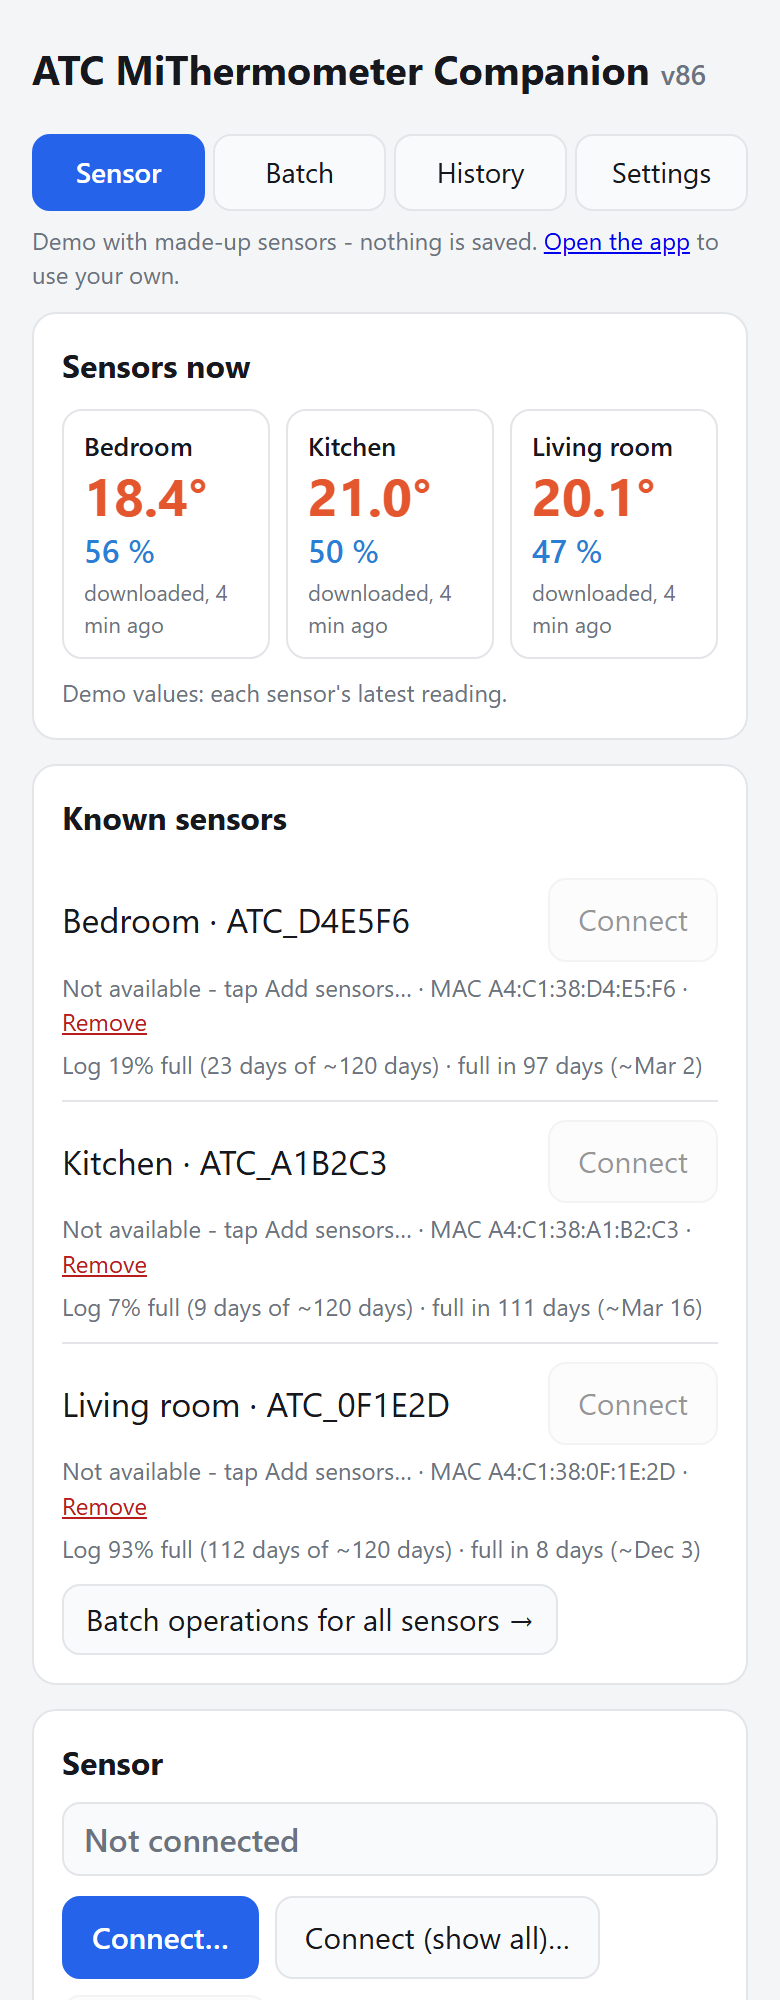
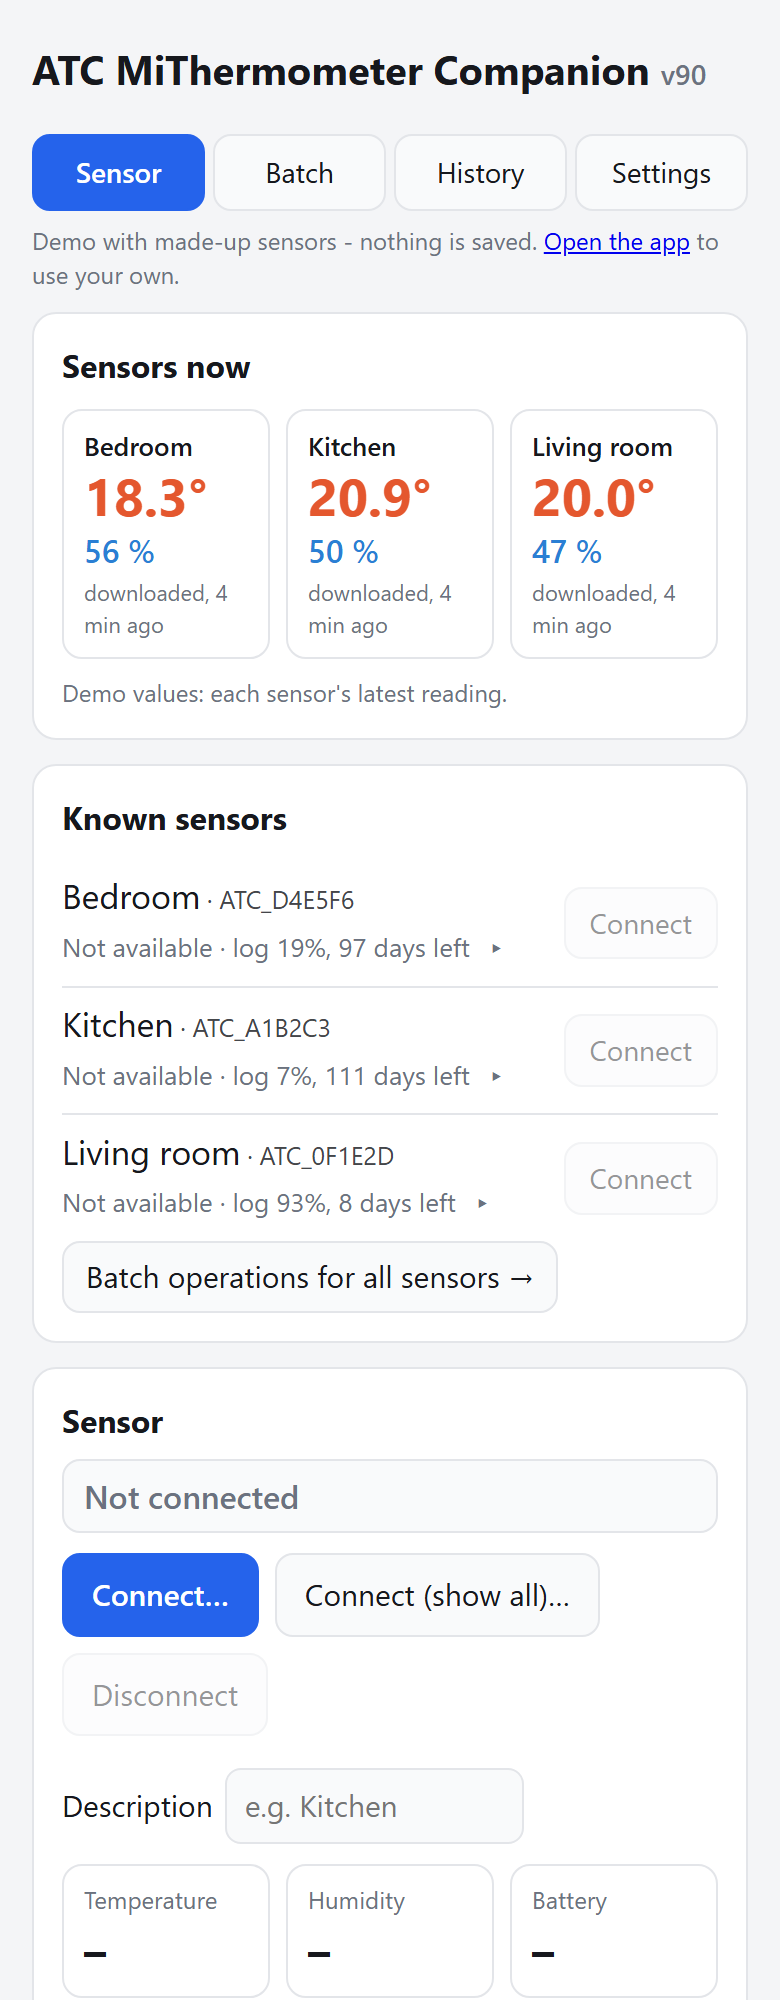
Compact sensor list: two lines per sensor, details on tap (v90)

diff --git a/index.html b/index.html
@@ -125,7 +125,25 @@ body:not([data-tab="all"]) .only-all { display: none !important; }
 .ks .nm { font-weight: 600; }
 #knownList .nm { font-size: 17px; }
 /* Batch tab: no per-sensor Connect buttons (batch operations connect by themselves) */
-body[data-tab="all"] #knownList .ks > button { display: none; }
+body[data-tab="all"] #knownList .ks > .go { display: none; }
+/* Compact sensor list: name line, status line, details on tap */
+#knownList .kc { grid-template-columns: minmax(0, 1fr) auto; gap: 0 10px; padding: 5px 0; }
+#knownList .kl { min-width: 0; }
+#knownList .kc .nm { display: flex; align-items: center; gap: 8px; min-height: 26px; cursor: pointer; }
+#knownList .kc .nm span { white-space: nowrap; overflow: hidden; text-overflow: ellipsis; }
+#knownList .kc .nm small { font-size: 12.5px; font-weight: 400; opacity: .8; }
+#knownList .kc .nm input { flex: none; margin: 0; }
+#knownList .kc .sub { display: flex; max-width: 100%; align-items: center; border: 0; background: none; border-radius: 0; padding: 3px 0 5px; font-size: 13px; color: var(--muted); font-variant-numeric: tabular-nums; white-space: pre; }
+body[data-tab="all"] #knownList .kc .sub { padding-left: 28px; }
+#knownList .kc .sub .lg2 { overflow: hidden; text-overflow: ellipsis; }
+#knownList .kc .sub .st.ok { color: var(--ok); }
+#knownList .kc .sub .lg2.soon { color: var(--warn); font-weight: 600; }
+#knownList .kc .sub .lg2.full { color: var(--err); font-weight: 700; }
+#knownList .kc .chev { flex: none; padding-left: 8px; }
+#knownList .kc .go { padding: 7px 12px; font-size: 14px; }
+#knownList .kc .more { grid-column: 1 / -1; font-size: 13px; color: var(--muted); padding: 2px 0 6px; line-height: 1.5; overflow-wrap: anywhere; }
+#knownList .kc .more .loglvl { font-size: 13px; }
+#knownList .kc .more .linkbtn { font-size: 13px; padding: 4px 0; }
 #batchStatus { scroll-margin-top: 70px; } /* stay clear of the sticky tab bar when scrolled to */
 #knownList .nm input[type=checkbox] { width: 20px; height: 20px; }
 .ks .vals { font-variant-numeric: tabular-nums; }
@@ -472,7 +490,7 @@ body[data-tab="all"] #knownList .ks > button { display: none; }
 </main>
 
 <!-- Pure logic (also used by the tests); the ?v= makes phones fetch the new copy with each release. -->
-<script src="core.js?v=89"></script>
+<script src="core.js?v=90"></script>
 <script>
 "use strict";
 // ===== Protocol constants (see ATC_MiThermometer_tools.py) =====
@@ -579,7 +597,7 @@ async function mergeInto(dev, newSamples) {
 // ===== Logging =====
 // Detailed debug log: every BLE packet in hex, connection-step timings, browser capabilities, errors
 // with stacks. Kept across page reloads (last LOG_MAX lines) so a crash or iOS reload doesn't lose it.
-const APP_VERSION = 89;  // also bump core.js?v= in the <script> tag above
+const APP_VERSION = 90;  // also bump core.js?v= in the <script> tag above
 const LOG_MAX = 4000;
 const logLines = lsGet("debugLog", []);
 let logDirty = false;
@@ -981,6 +999,7 @@ function clearSensors() {
   sensorsMsg("Sensor list cleared."); renderKnown();
 }
 
+const openKnown = new Set();  // sensors whose details are open in the list
 function renderKnown() {
   const box = $("knownList"); box.innerHTML = "";
   if (!knownNames().length) {
@@ -988,25 +1007,40 @@ function renderKnown() {
   }
   let ready = 0, ticked = 0;
   for (const name of knownNames()) {
-    const k = known[name] || {}, room = rooms[name] || "";
+    const k = known[name] || {};
     const isCur = !!chr && sensorName === name;
     const dev = reachable.get(name);
     if (dev) ready++; if (batchSel.has(name)) ticked++;
-    const row = document.createElement("div"); row.className = "ks" + (isCur ? " current" : "");
-    const left = document.createElement("div");
-    left.innerHTML = `<label class="nm"><input type="checkbox"> <span></span></label><div class="vals"></div>`;
+    // Two lines: name, then availability and log - everything else opens on tap (details).
+    const open = openKnown.has(name);
+    const row = document.createElement("div"); row.className = "ks kc" + (isCur ? " current" : "") + (open ? " open" : "");
+    const toggle = () => { openKnown.has(name) ? openKnown.delete(name) : openKnown.add(name); renderKnown(); };
+    const left = document.createElement("div"); left.className = "kl";
+    left.innerHTML = `<label class="nm"><input type="checkbox"> <span></span></label><button class="sub" type="button"><span class="st"></span><span class="lg2"></span><span class="chev" aria-hidden="true"></span></button>`;
     const cb = left.querySelector("input"); cb.checked = batchSel.has(name);
     cb.onchange = () => { cb.checked ? batchSel.add(name) : batchSel.delete(name); saveSel(); renderKnown(); };
+    // The name ticks the sensor on the Batch tab; on the Sensor tab (no tick box) it opens the details.
+    left.querySelector("label").onclick = ev => { if (document.body.dataset.tab !== "all") { ev.preventDefault(); toggle(); } };
     const nameEl = left.querySelector(".nm span");
-    // Main line shows the Bluetooth name (what the picker shows); the fixed ATC_xxxxxx ID moves to the details.
+    // Description and Bluetooth name (what the picker shows); the fixed ATC_xxxxxx ID is in the details.
     const btName = k.btName || name;
-    nameEl.textContent = shownName(name);
+    nameEl.textContent = rooms[name] || btName; nameEl.title = shownName(name);
+    if (rooms[name]) { const bt = document.createElement("small"); bt.textContent = ` · ${btName}`; nameEl.append(bt); }
     // Green = available, bold = the connected one.
     nameEl.style.color = dev ? "var(--ok)" : "";
     nameEl.style.fontWeight = isCur ? "700" : "400";
-    left.querySelector(".vals").textContent = k.t != null
-      ? `${k.t.toFixed(2)} °C · ${k.h.toFixed(1)} %${k.b != null ? ` · 🔋${k.b}%` : ""}${k.seen ? ` · ${ago(k.seen)}` : ""}` : "";
-    const btn = document.createElement("button");
+    const rem = remembered.get(name), lw = logWarning(name);
+    const fresh = k.t != null && k.seen && Date.now() - k.seen < 600000;
+    const st = left.querySelector(".st");
+    st.textContent = fresh ? `${dev ? "✓ " : ""}${k.t.toFixed(1)}° ${k.h.toFixed(0)}%` : dev ? "✓ Available" : rem && rem._waking ? "Looking…" : "Not available";
+    if (dev) st.classList.add("ok");
+    const lg2 = left.querySelector(".lg2");
+    lg2.className = "lg2 " + lw.level; lg2.textContent = lw.short ? " · " + lw.short : "";
+    const subBtn = left.querySelector(".sub");
+    left.querySelector(".chev").textContent = open ? "▾" : "▸";
+    subBtn.setAttribute("aria-expanded", String(open)); subBtn.setAttribute("aria-label", `${st.textContent}${lg2.textContent} - ${open ? "hide" : "show"} details of ${shownName(name)}`);
+    subBtn.onclick = toggle;
+    const btn = document.createElement("button"); btn.className = "go";
     btn.textContent = isCur ? "Connected" : chr ? "Switch" : "Connect";
     if (isCur) btn.classList.add("is-current");
     btn.disabled = !dev || isCur || busy;
@@ -1020,24 +1054,20 @@ function renderKnown() {
         }
       });
     };
-    const meta = document.createElement("div"); meta.className = "meta";
-    const rem = remembered.get(name);
-    const avail = document.createElement("span");
-    avail.textContent = dev ? "✓ Available" : rem && rem._waking ? "Looking for sensor…" : "Not available - tap Add sensors…";
-    avail.style.color = dev ? "var(--ok)" : "";
-    avail.style.fontWeight = dev ? "600" : "";
-    meta.append(avail);
-    meta.append(
-      (btName !== name ? ` · ID ${name}` : "") + ` · MAC ${k.mac || macFromName(name) || "?"}`);
-    const rm = document.createElement("button");
-    rm.className = "linkbtn"; rm.textContent = "Remove"; rm.title = "Remove from the list";
-    rm.onclick = () => removeSensor(name);
-    meta.append(" · ", rm);
-    row.append(left, btn, meta);
-    const lw = logWarning(name);
-    const logEl = document.createElement("div"); logEl.className = "loglvl " + (lw ? lw.level : "none");
-    logEl.textContent = lw.text;
-    row.append(logEl);
+    row.append(left, btn);
+    if (open) {
+      const more = document.createElement("div"); more.className = "more";
+      const line = (text, cls) => { const d = document.createElement("div"); d.textContent = text; if (cls) d.className = cls; more.append(d); };
+      if (!dev) line(rem && rem._waking ? "Looking for the sensor…" : "Not available: tap “Connect…” on the Sensor tab or “Add sensors…” on the Batch tab.");
+      if (k.t != null) line(`Last heard: ${k.t.toFixed(2)} °C · ${k.h.toFixed(1)} %${k.b != null ? ` · 🔋${k.b}%` : ""}${k.seen ? ` · ${ago(k.seen)}` : ""}`);
+      line(lw.text, "loglvl " + lw.level);
+      line((btName !== name ? `ID ${name} · ` : "") + `MAC ${k.mac || macFromName(name) || "?"}`);
+      const rm = document.createElement("button");
+      rm.className = "linkbtn"; rm.textContent = "Remove from the list";
+      rm.onclick = () => removeSensor(name);
+      more.append(rm);
+      row.append(more);
+    }
     box.appendChild(row);
   }
   renderRooms();
@@ -1821,19 +1851,19 @@ function noteSensorLog(name, n, intervalSec) {
 function logWarning(name) {
   const k = known[name] || {}, L = k.log;
   const cfgP = logIntervalFromCfg(k.cfg);
-  if (cfgP === 0) return { level: "ok", text: "Logging is off in this sensor's config" };
+  if (cfgP === 0) return { level: "ok", short: "logging off", text: "Logging is off in this sensor's config" };
   const P = cfgP || (L && L.P) || 600;
   const capDays = LOG_CAPACITY * P / 86400;
   const every = P % 60 ? `${P} s` : `${P / 60} min`;
-  if (!L) return { level: "none", text: `Log holds ~${fmtDays(capDays)} at one sample every ${every} - fill level known after the next full download` };
+  if (!L) return { level: "none", short: "", text: `Log holds ~${fmtDays(capDays)} at one sample every ${every} - fill level known after the next full download` };
   const now = Date.now() / 1000;
   const est = Math.min(LOG_CAPACITY, L.n + Math.max(0, now - L.at) / P);
   const fullAt = L.at + Math.max(0, LOG_CAPACITY - L.n) * P, daysLeft = (fullAt - now) / 86400;
   const pct = Math.round(est / LOG_CAPACITY * 100);
   const when = new Date(fullAt * 1000).toLocaleDateString(undefined, { day: "numeric", month: "short" });
-  if (daysLeft <= 0) return { level: "full", text: `Log full since ~${when}: the oldest readings are being overwritten - download now` };
-  if (daysLeft <= 7) return { level: "soon", text: `Log ${pct}% full: full in ${fmtDays(daysLeft)} (~${when}), then the oldest readings are overwritten - download soon` };
-  return { level: "ok", text: `Log ${pct}% full (${fmtDays(est * P / 86400)} of ~${fmtDays(capDays)}) · full in ${fmtDays(daysLeft)} (~${when})` };
+  if (daysLeft <= 0) return { level: "full", short: "⚠ log full", text: `Log full since ~${when}: the oldest readings are being overwritten - download now` };
+  if (daysLeft <= 7) return { level: "soon", short: `⚠ log full in ${fmtDays(daysLeft)}`, text: `Log ${pct}% full: full in ${fmtDays(daysLeft)} (~${when}), then the oldest readings are overwritten - download soon` };
+  return { level: "ok", short: `log ${pct}%, ${fmtDays(daysLeft)} left`, text: `Log ${pct}% full (${fmtDays(est * P / 86400)} of ~${fmtDays(capDays)}) · full in ${fmtDays(daysLeft)} (~${when})` };
 }
 
 // Plain-language label and explanation per setting. Explanations may be functions of the whole config,
